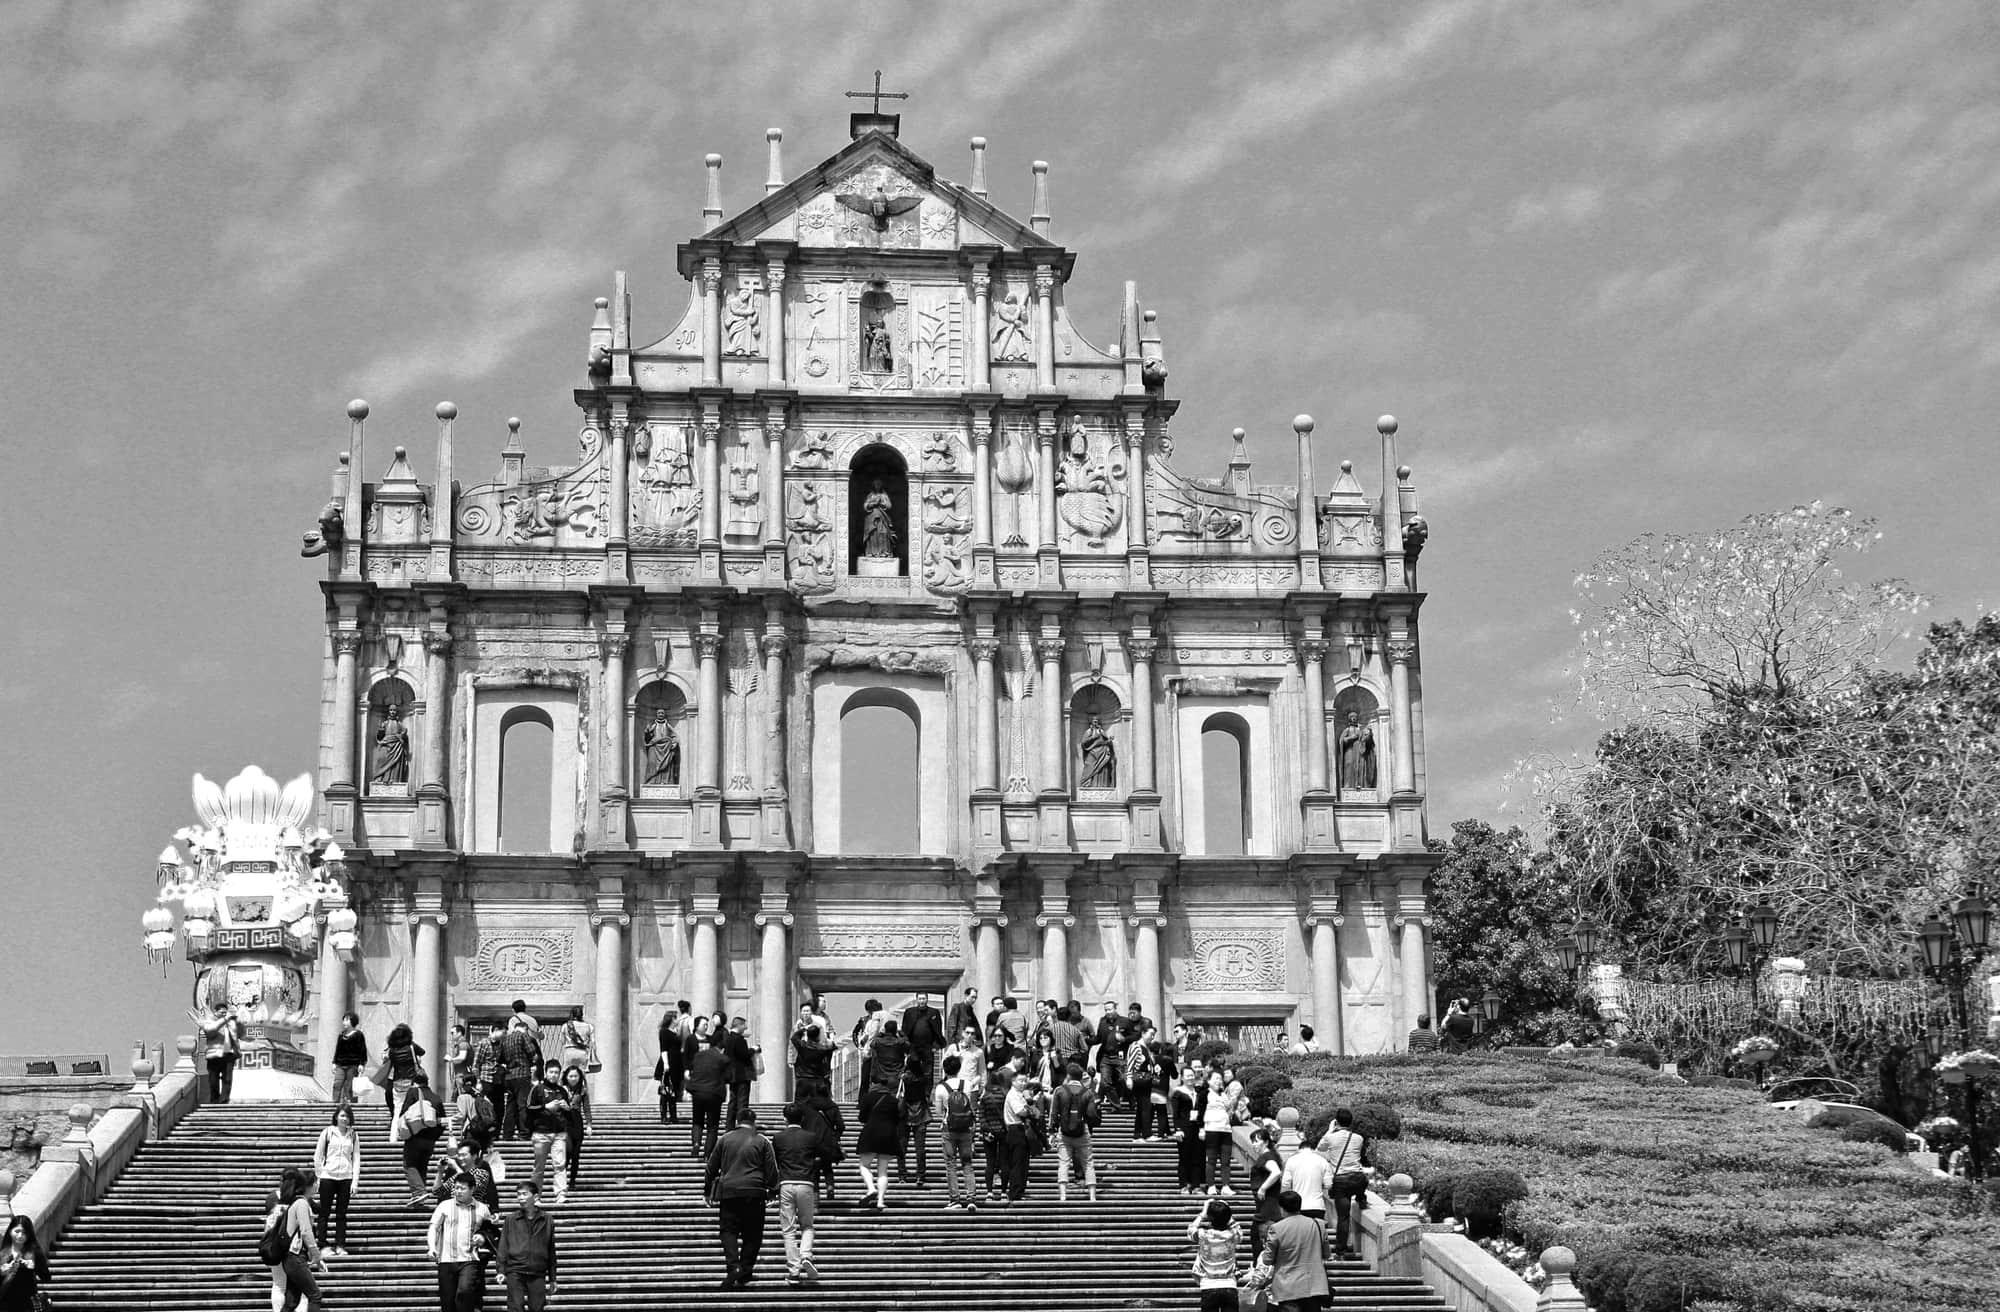
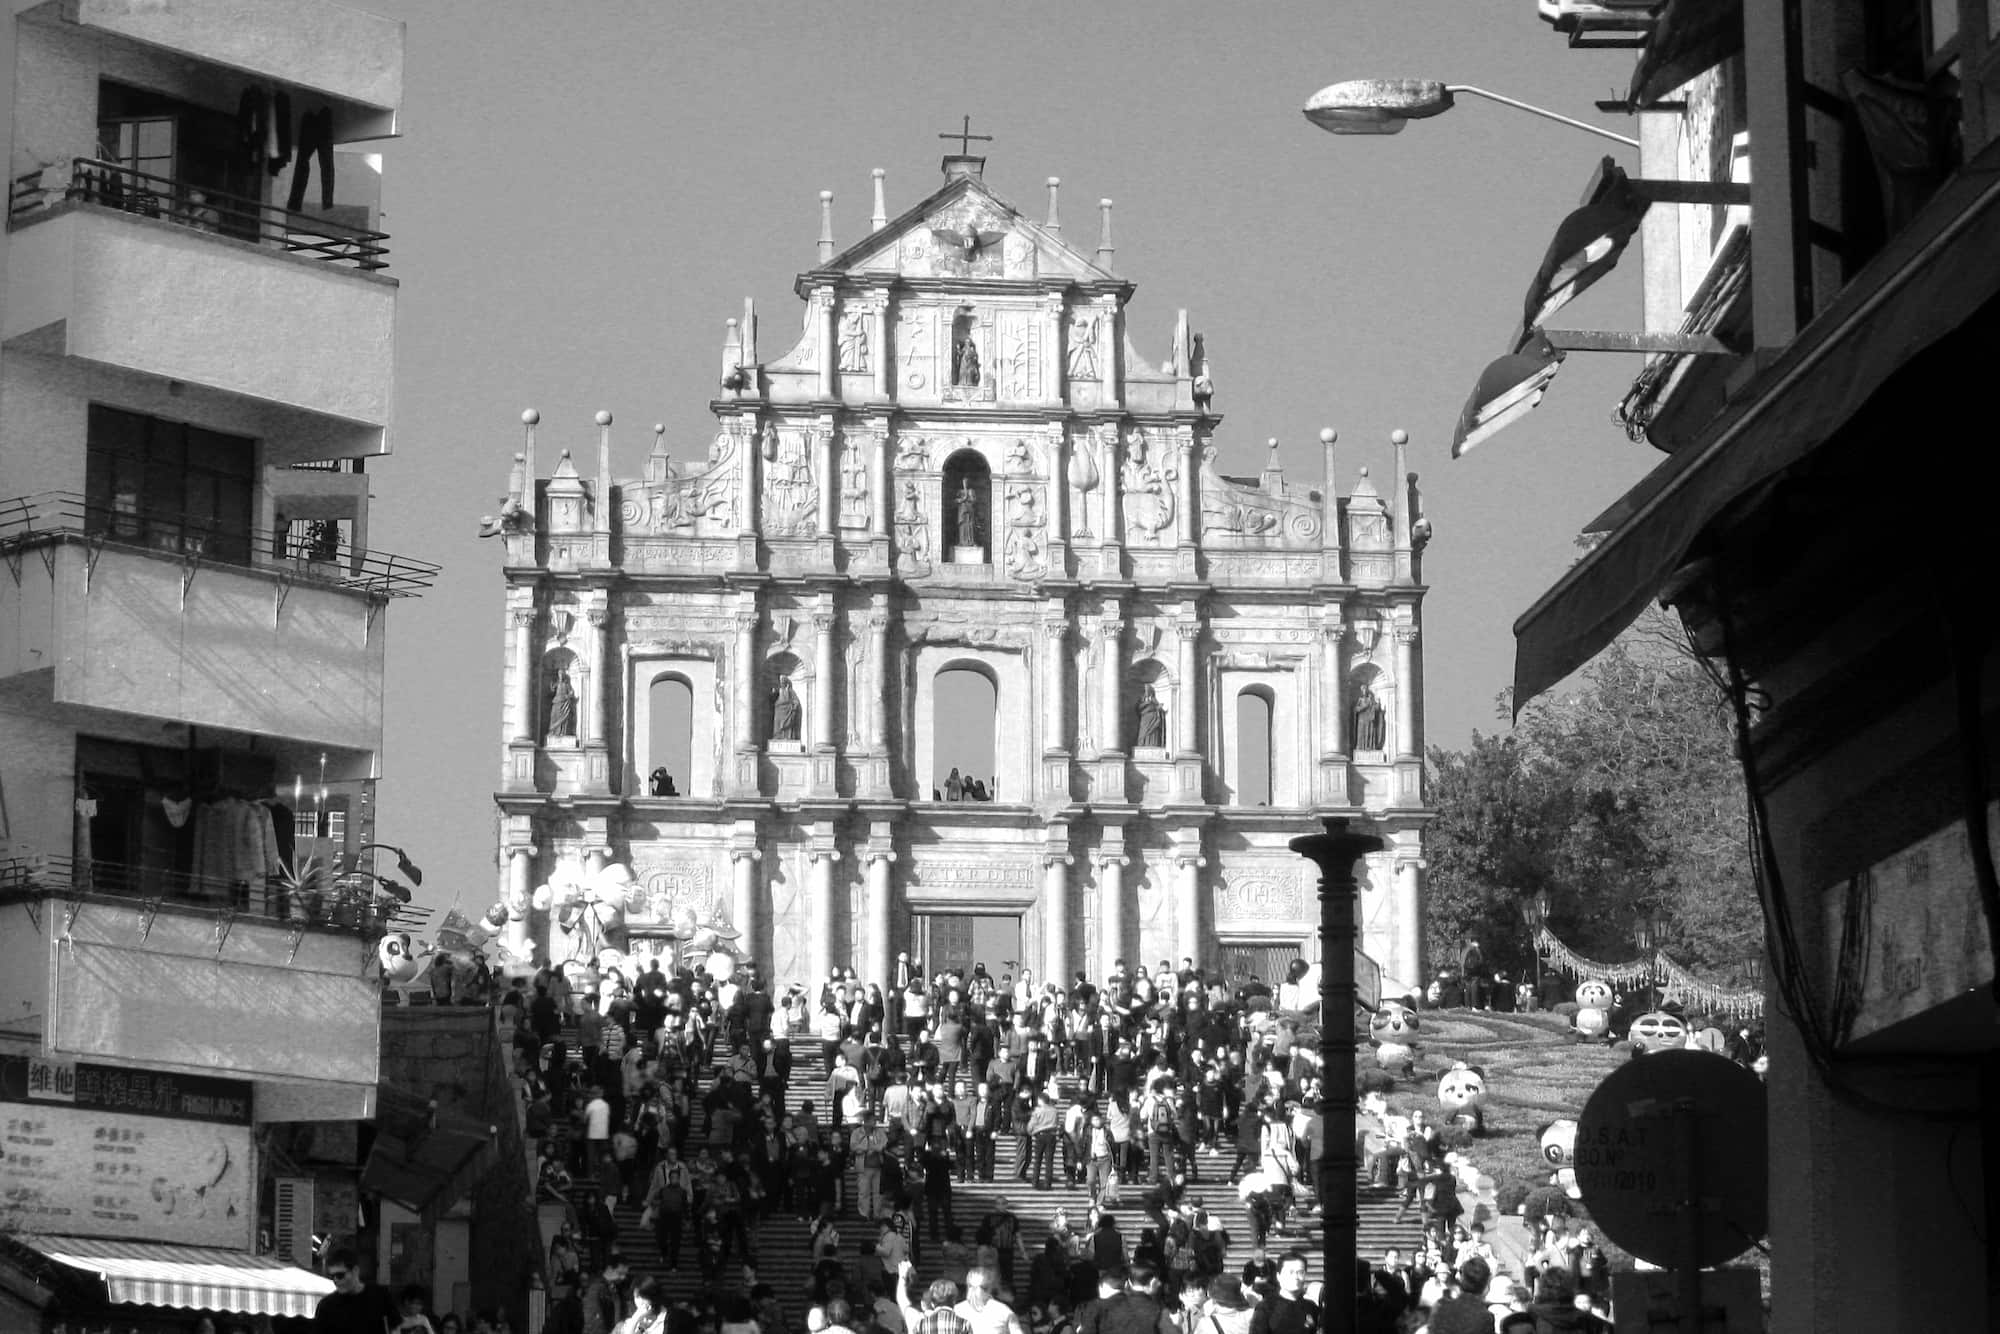
Replace Macau photo

diff --git a/src/photo/2024-11-02-ruins-of-st-pauls.md b/src/photo/2024-11-02-ruins-of-st-pauls.md
@@ -3,11 +3,11 @@ title: Ruins of St. Paul's
 tags: john
 image: /files/Ruins_of_St_Pauls/Ruins_of_St_Pauls_2000.jpg
 imageBase: Ruins_of_St_Pauls
-alt: Front steps and facade of St. Paul's Cathedral in Macau.  
+alt: Front steps and facade of St. Paul's Cathedral in Macau surrounded by local buildings.  
 width: 2000
 height: 1333
-imageDate: March 2013
+imageDate: December 2010
 location: Macau SAR
-camera: Canon T3i
-metaDescription: Front steps and facade of St. Paul's Cathedral in Macau.  
+camera: Canon IXUS 860 IS
+metaDescription: Front steps and facade of St. Paul's Cathedral in Macau surrounded by local buildings.  
 ---
